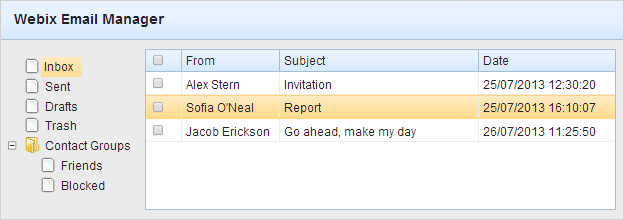
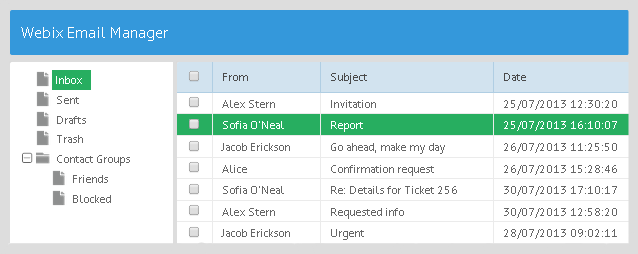
docs and samples

diff --git a/data/desktop/skins.md b/data/desktop/skins.md
@@ -2,14 +2,17 @@ Skins
 ===================
 Webix provides 8 skins that you can use to change the overall look of your application:
 
-1. [Air (default)](desktop/skins.md#airdefaultskin)
-2. [Compact](desktop/skins.md#compact)
-3. [Clouds](desktop/skins.md#clouds)
-4. [Glamour](desktop/skins.md#glamour)
-5. [Light](desktop/skins.md#light)
-6. [Metro](desktop/skins.md#metro)
-7. [Terrace](desktop/skins.md#terrace)
-8. [Web](desktop/skins.md#web)
+1. [Flat (default skin)](desktop/skins.md#flat)
+2. [Air](desktop/skins.md#air)
+3. [AirCompact](desktop/skins.md#aircompact)
+4. [Clouds](desktop/skins.md#clouds)
+5. [Compact](desktop/skins.md#compact) 
+6. [Glamour](desktop/skins.md#glamour)
+7. [Light](desktop/skins.md#light)
+8. [Metro](desktop/skins.md#metro)
+9. [Terrace](desktop/skins.md#terrace)
+10. [Touch](desktop/skins#touch)
+11. [Web](desktop/skins.md#web)
 
 Each skin requires including its specific CSS file. 
 
@@ -17,35 +20,49 @@ Each skin requires including its specific CSS file.
 All CSS files for skins reside in the **codebase/skins** folder of the package.
 }}
 
+Flat
+------
+To apply the **Flat** skin, include the default CSS file:
 
-Air (default skin)
+{{snippet
+Applying the 'Flat' skin to the app
+}}
+~~~js
+<script src="../codebase/webix.js"></script>   
+<link href="../codebase/skins/webix.css" rel="stylesheet" type="text/css"> 
+~~~
+
+<img style="margin: 20px auto 20px auto;display: block;box-shadow: #D8D8D8 0px 0px 7px 1px;" src="desktop/skins/flat_skin.png"/>
+
+
+Air 
 ------------------------
-To apply the **Air** skin, include the default CSS file:
+To apply the **Air** skin, include the *air.css* file:
 
 {{snippet
 Applying the 'Air' skin to the app
 }}
 ~~~js
 <script src="../codebase/webix.js"></script>   
-<link href="../codebase/webix.css" rel="stylesheet" type="text/css"> 
+<link href="../codebase/air.css" rel="stylesheet" type="text/css"> 
 ~~~
 
 
 <img style="margin: 20px auto 20px auto;display: block;box-shadow: #D8D8D8 0px 0px 7px 1px;" src="desktop/skins/air_skin.png"/>
 
-Compact
+AirCompact
 ---------------------------
-To apply the **Compact** skin, include the *compact.css* file:
+To apply the **AirCompact** skin, include the *aircompact.css* file:
 
 {{snippet
-Applying the 'Compact' skin to the app
+Applying the 'AirCompact' skin to the app
 }}
 ~~~js
 <script src="../codebase/webix.js"></script>   
-<link href="../codebase/skins/compact.css" rel="stylesheet" type="text/css"> 
+<link href="../codebase/skins/aircompact.css" rel="stylesheet" type="text/css"> 
 ~~~
 
-<img style="margin: 20px auto 20px auto;display: block;box-shadow: #D8D8D8 0px 0px 7px 1px;" src="desktop/skins/compact_skin.png"/>
+<img style="margin: 20px auto 20px auto;display: block;box-shadow: #D8D8D8 0px 0px 7px 1px;" src="desktop/skins/aircompact_skin.png"/>
 
 Clouds
 --------------------------------
@@ -61,6 +78,22 @@ Applying the 'Clouds' skin to the app
 
 <img style="margin: 20px auto 20px auto;display: block;box-shadow: #D8D8D8 0px 0px 7px 1px;" src="desktop/skins/clouds_skin.png"/>
 
+Compact
+--------
+To apply the **Compact** skin, include the *compact.css* file:
+
+{{snippet
+Applying the 'Compact' skin to the app
+}}
+~~~js
+<script src="../codebase/webix.js"></script>   
+<link href="../codebase/skins/compact.css" rel="stylesheet" type="text/css"> 
+~~~
+
+<img style="margin: 20px auto 20px auto;display: block;box-shadow: #D8D8D8 0px 0px 7px 1px;" src="desktop/skins/compact_skin.png"/>
+
+
+
 Glamour
 ---------------------------------
 To apply the **Glamour** skin, include the *glamour.css* file:
@@ -74,6 +107,7 @@ Applying the 'Glamour' skin to the app
 ~~~
 
 <img style="margin: 20px auto 20px auto;display: block;box-shadow: #D8D8D8 0px 0px 7px 1px;" src="desktop/skins/glamour_skin.png"/>
+
 
 Light
 -----------------------------------
@@ -117,6 +151,21 @@ Applying the 'Terrace' skin to the app
 ~~~
 
 <img style="margin: 20px auto 20px auto;display: block;box-shadow: #D8D8D8 0px 0px 7px 1px;" src="desktop/skins/terrace_skin.png"/>
+
+Touch 
+------------------------
+To apply the **Touch** skin, include the *touch.css* file:
+
+{{snippet
+Applying the 'Touch' skin to the app
+}}
+~~~js
+<script src="../codebase/webix.js"></script>   
+<link href="../codebase/touch.css" rel="stylesheet" type="text/css"> 
+~~~
+
+
+<img style="margin: 20px auto 20px auto;display: block;box-shadow: #D8D8D8 0px 0px 7px 1px;" src="desktop/skins/touch_skin.png"/>
 
 Web
 --------------------------------------

diff --git a/data/desktop/chart_tooltip.md b/data/desktop/chart_tooltip.md
@@ -1,6 +1,6 @@
 Chart Tooltip
 =============
-Tooltip is a graphical UI element that becomes visible when a user places a mouse pointer over the predefines area. It's used as an infotip giving additional information of user request. 
+Tooltip is a graphical UI element that becomes visible when a user places a mouse pointer over the predefined area. It's used as an infotip giving additional information on user request. 
 
 <img src="desktop/chart_tooltip.png" />
 
@@ -57,7 +57,7 @@ webix.ui({
 
 Templates may include several properties of one and the same data object. 
 
-If you want to see and year - sales tooltip for the chart above, change the tooltip template and include #year# to it: 
+If you want to see year - sales tooltip for the chart above, change the tooltip template and include #year# to it: 
 
 ~~~js
 tooltip:{
@@ -65,7 +65,7 @@ tooltip:{
          }
 ~~~
 
-Such tooltips are especially convenient for [Scatter](desktop/chart_types.md#scatter) charts where don't aren't connected by lines and it's difficult to read exact value: 
+Such tooltips are especially convenient for [Scatter](desktop/chart_types.md#scatter) charts where points aren't connected by lines and it's difficult to read exact value: 
 
 
 <img src="desktop/scatter_tooltip.png" />

diff --git a/data/desktop/components.md b/data/desktop/components.md
@@ -1,6 +1,6 @@
 UI Components
 ==================
-The <a title="ui library" href="http://webix.com">Webix UI library</a> supplies over 40 fully customizable components to help you build interfaces of different kinds, nicely present data and work with it. There're also multiple controls and
+The <a title="ui library" href="http://webix.com">Webix UI library</a> supplies over 40 fully customizable components to help you build interfaces of different kinds, nicely present data and work with it. There are also multiple controls and
 specific features to make your applications good-looking and user-friendly. All the components are objects made with the webix.ui() constructor where the type of the component is set by the 'view' property (the declarative syntax is available as well).
 
 <br>

diff --git a/data/desktop/grouping.md b/data/desktop/grouping.md
@@ -404,7 +404,6 @@ Grouping Events {#groupingevent}
     - **value** - value of the grouping criterion;
     - **data** - component data object;
 - **onGroupFooter** - fires when grouping is applied to the component and a footer for each group is provided. 
-- 
 
 ~~~js
 webix.ui({
